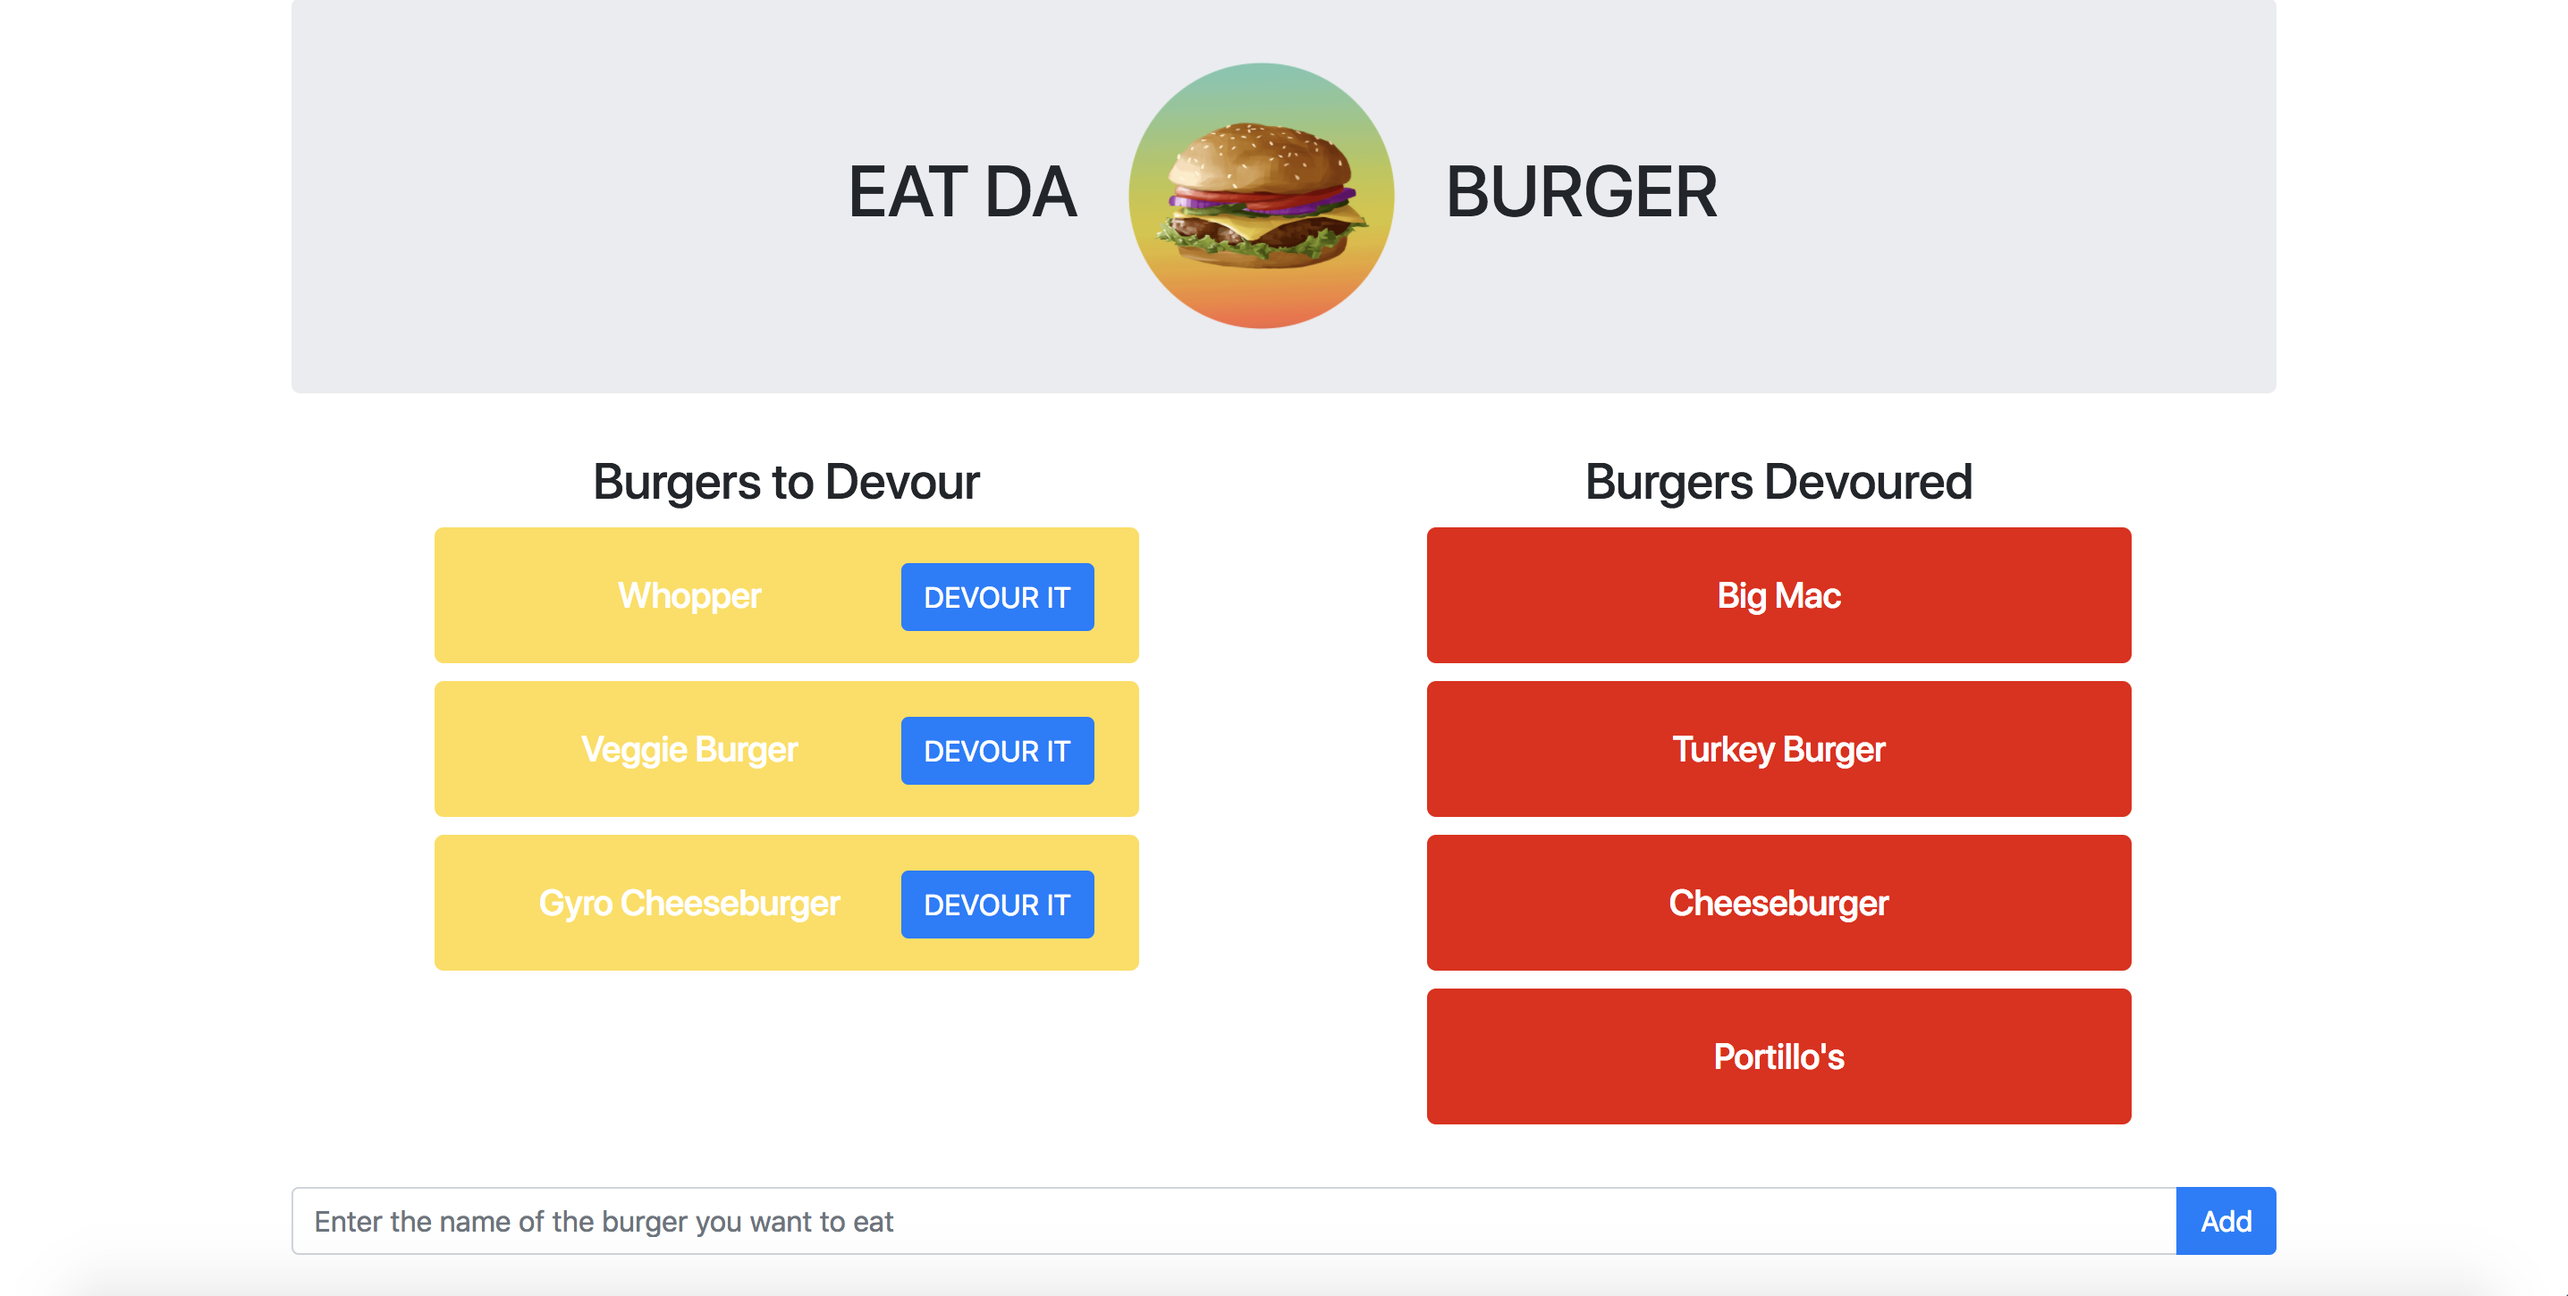
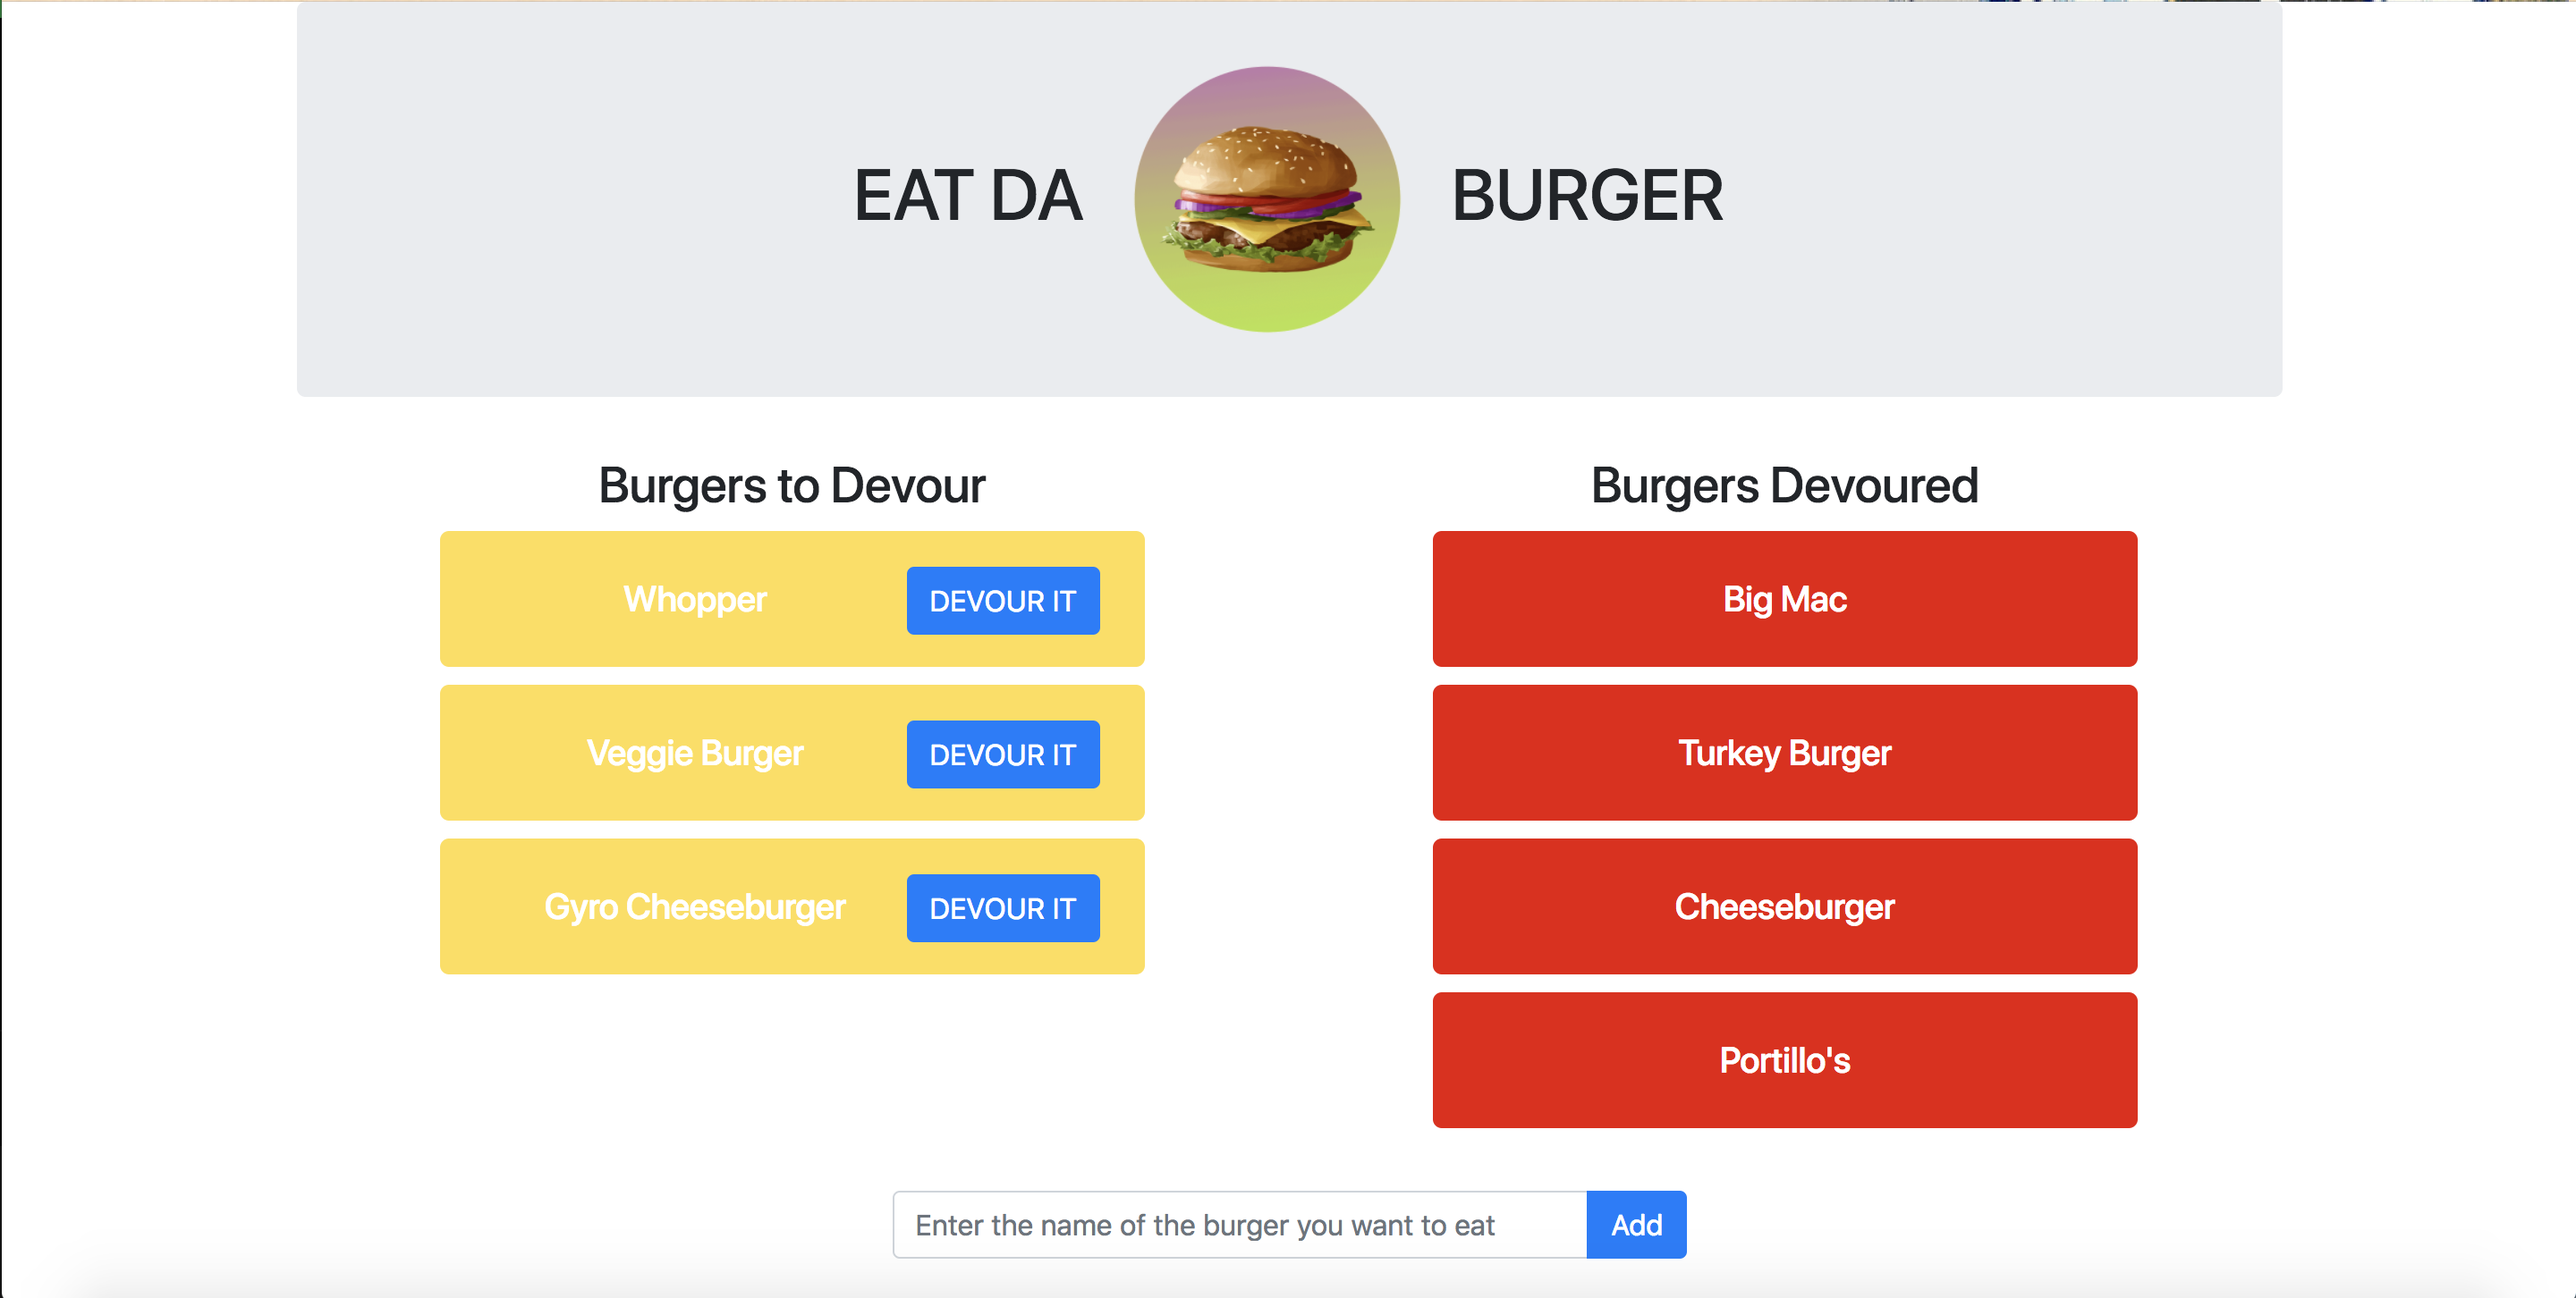
Update ReadME

diff --git a/public/assets/css/burger_style.css b/public/assets/css/burger_style.css
@@ -60,3 +60,8 @@ h5 {
 .col-sm.devoured > .card > .card-body {
     background-color:#EA0F00;
 } 
+
+.input-group {
+    width: 40%;
+    margin: 0 auto;
+}
